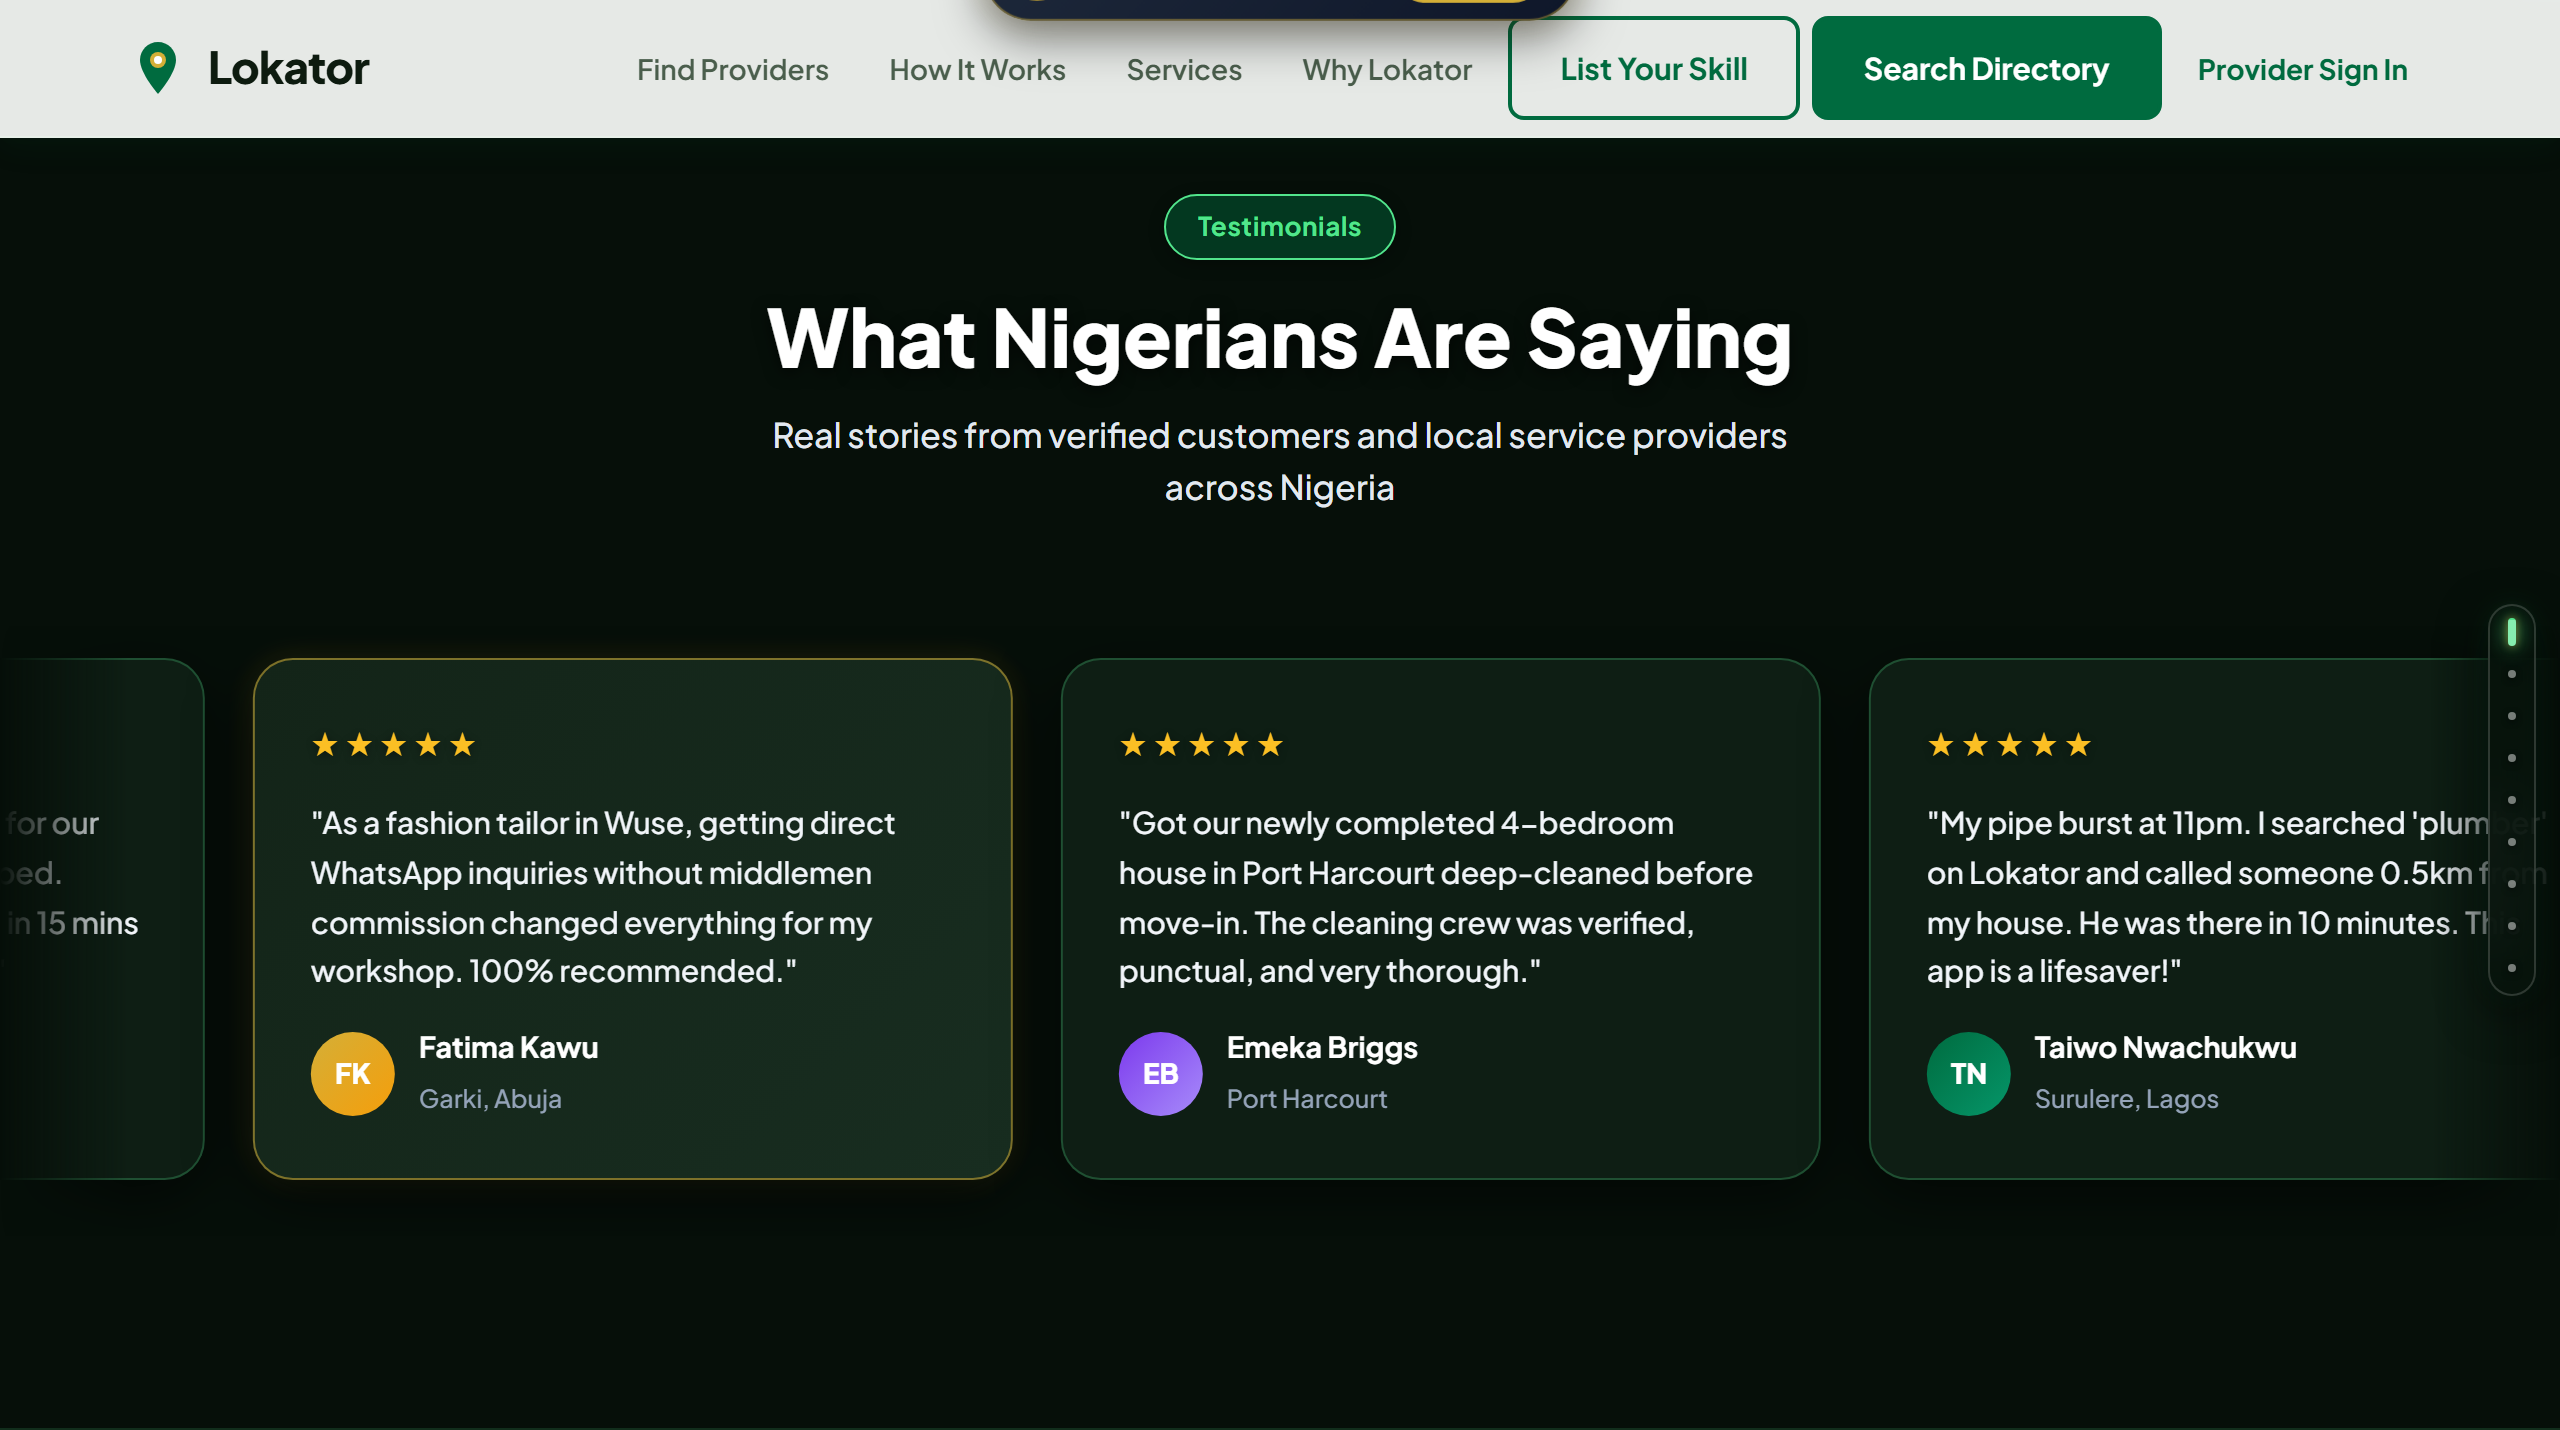
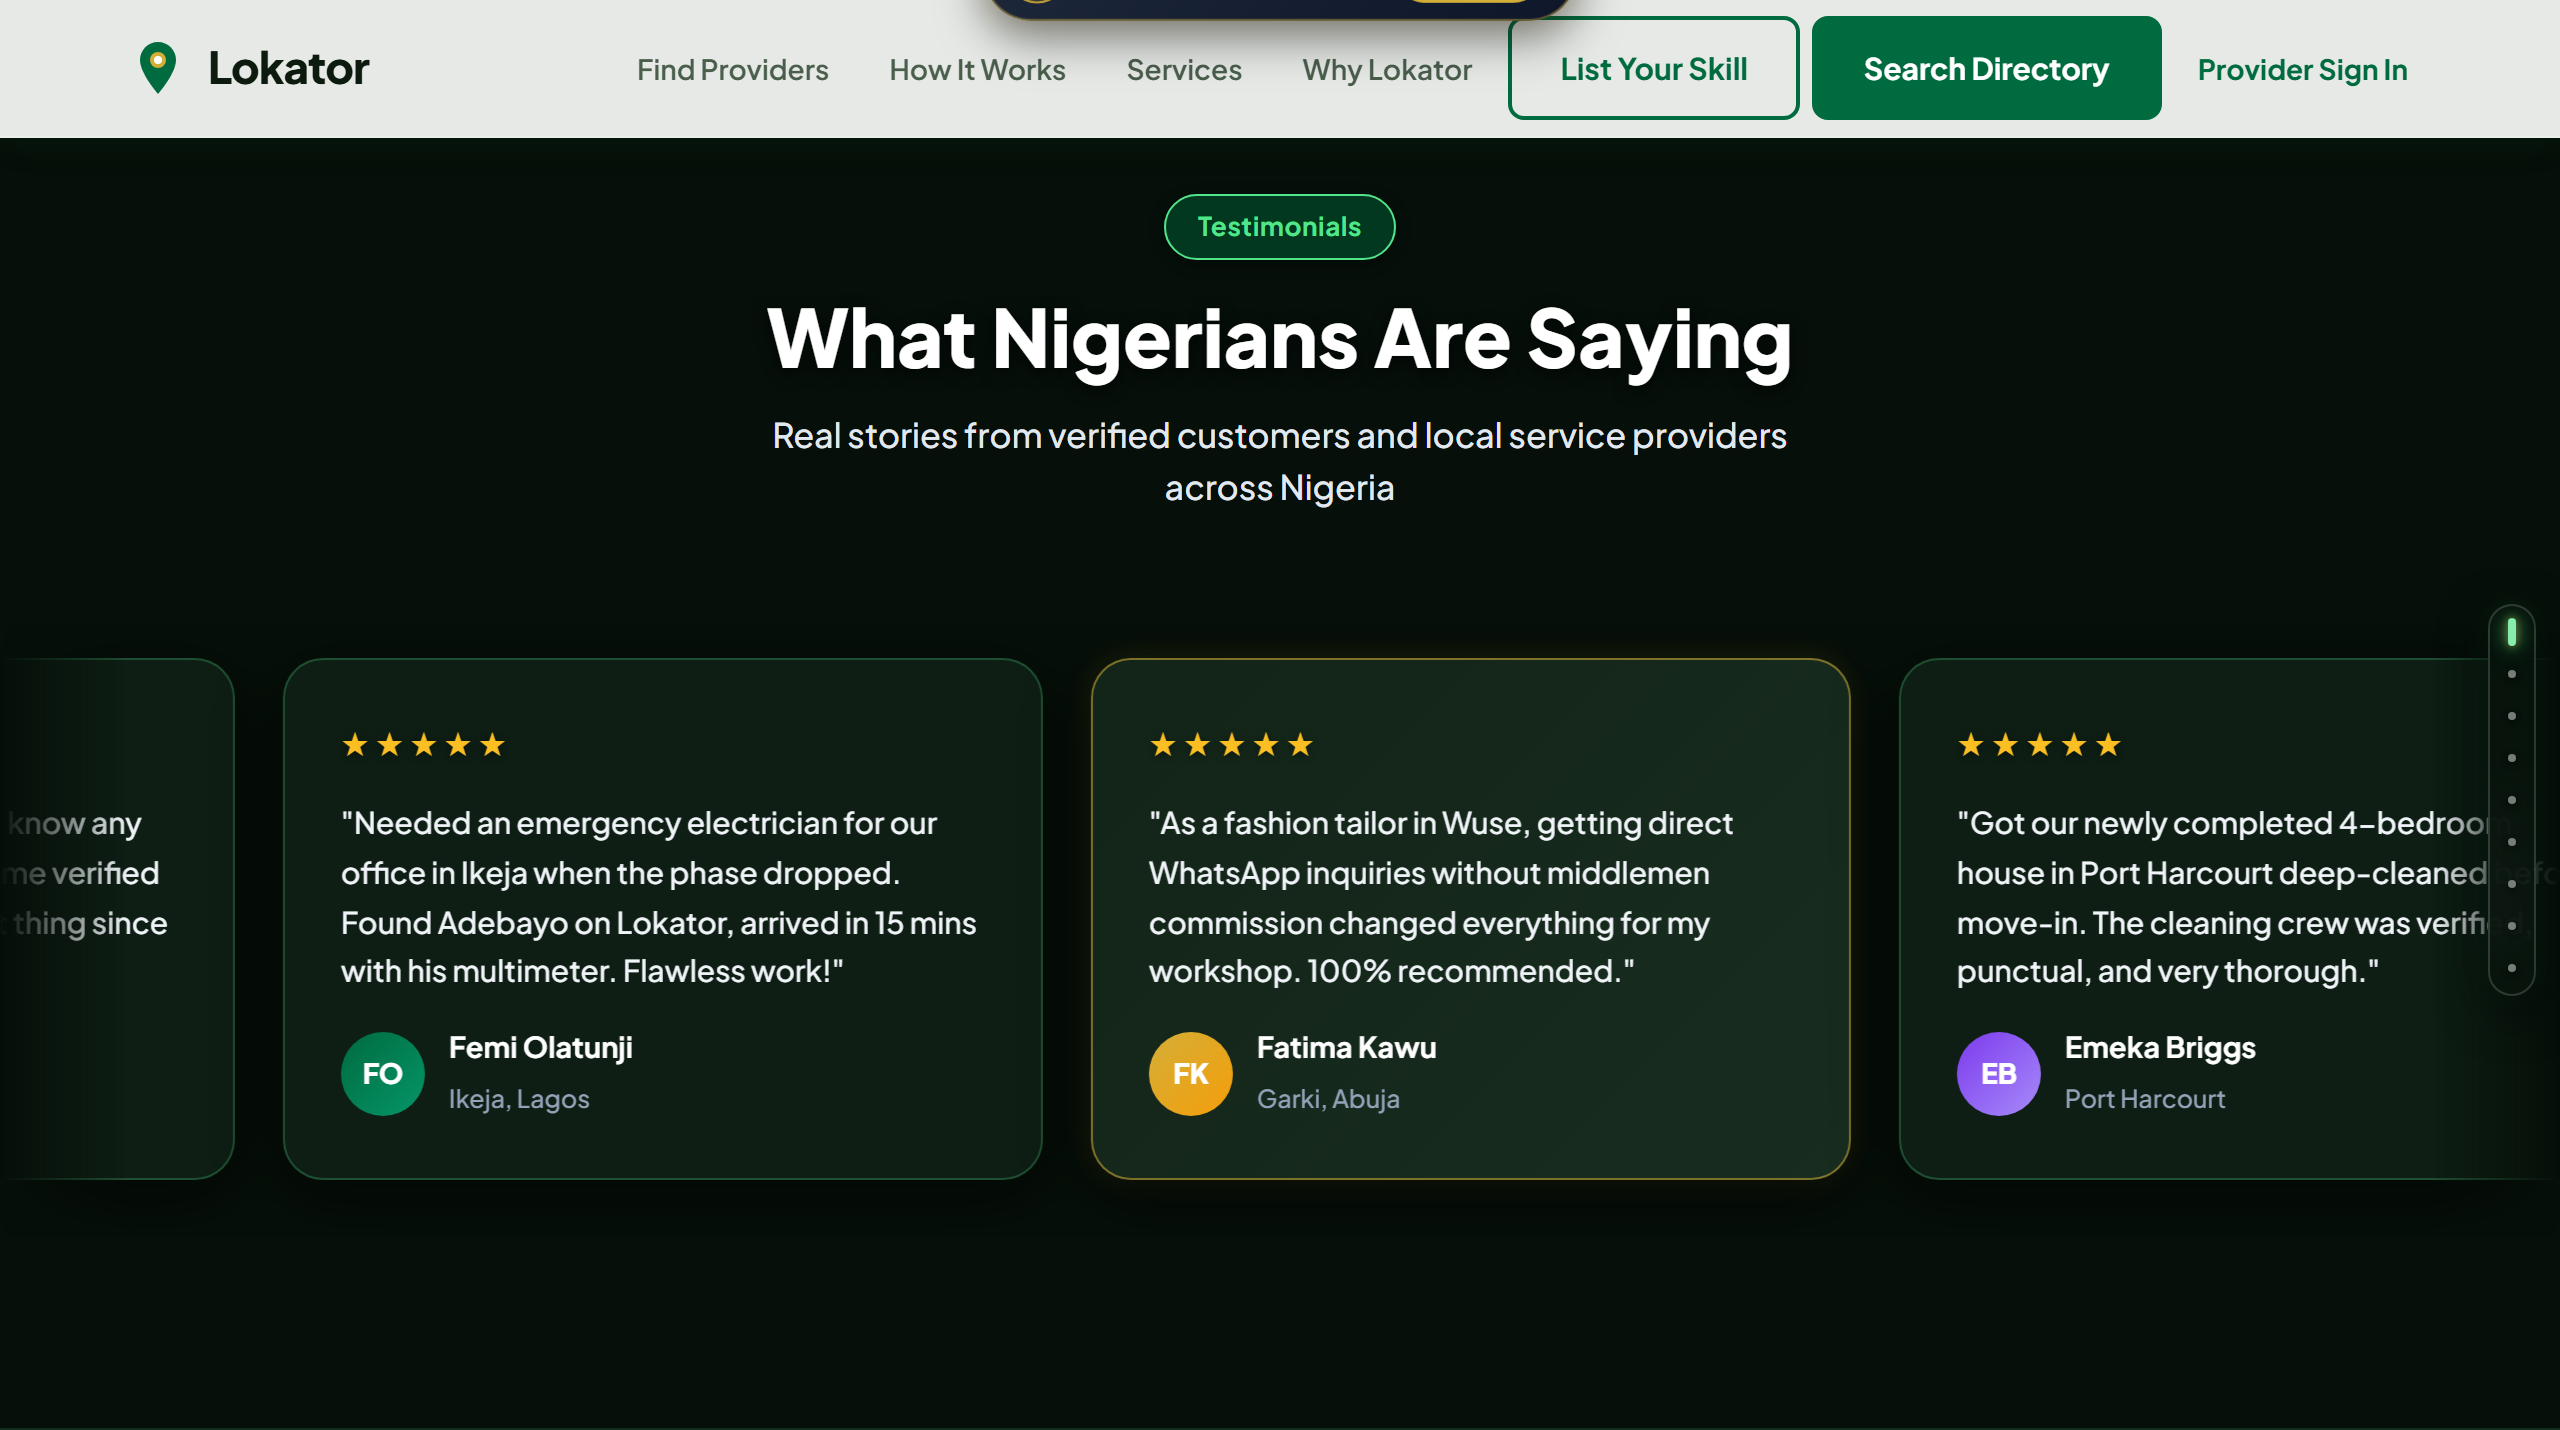
fix(home): reduce testimonial marquee to a single loop cycle and remove extra duplicates

diff --git a/index.html b/index.html
@@ -1092,110 +1092,6 @@
             </div>
           </div>
         </div>
-
-        <!-- Group 3: Seamless Clone Set 2 -->
-        <div class="testi-group" aria-hidden="true">
-          <div class="testi-card">
-            <div class="testi-stars">★★★★★</div>
-            <p>"My pipe burst at 11pm. I searched 'plumber' on Lokator and called someone 0.5km from my house. He was there in 10 minutes. This app is a lifesaver!"</p>
-            <div class="testi-author">
-              <div class="testi-av tav1">TN</div>
-              <div><strong>Taiwo Nwachukwu</strong><span>Surulere, Lagos</span></div>
-            </div>
-          </div>
-          <div class="testi-card testi-hl">
-            <div class="testi-stars">★★★★★</div>
-            <p>"I registered as a nail tech on Lokator and in my first week I got 7 new customers — all from my area. I didn't pay one naira. My business is booming!"</p>
-            <div class="testi-author">
-              <div class="testi-av tav2">AB</div>
-              <div><strong>Amaka Bello</strong><span>Wuse, Abuja</span></div>
-            </div>
-          </div>
-          <div class="testi-card">
-            <div class="testi-stars">★★★★★</div>
-            <p>"No more asking neighbours 'you know any good mechanic?' Lokator shows me verified people near me with ratings. Best thing since WhatsApp in Nigeria!"</p>
-            <div class="testi-author">
-              <div class="testi-av tav3">SK</div>
-              <div><strong>Sani Kabiru</strong><span>Kano</span></div>
-            </div>
-          </div>
-          <div class="testi-card">
-            <div class="testi-stars">★★★★★</div>
-            <p>"Needed an emergency electrician for our office in Ikeja when the phase dropped. Found Adebayo on Lokator, arrived in 15 mins with his multimeter. Flawless work!"</p>
-            <div class="testi-author">
-              <div class="testi-av tav1">FO</div>
-              <div><strong>Femi Olatunji</strong><span>Ikeja, Lagos</span></div>
-            </div>
-          </div>
-          <div class="testi-card testi-hl">
-            <div class="testi-stars">★★★★★</div>
-            <p>"As a fashion tailor in Wuse, getting direct WhatsApp inquiries without middlemen commission changed everything for my workshop. 100% recommended."</p>
-            <div class="testi-author">
-              <div class="testi-av tav2">FK</div>
-              <div><strong>Fatima Kawu</strong><span>Garki, Abuja</span></div>
-            </div>
-          </div>
-          <div class="testi-card">
-            <div class="testi-stars">★★★★★</div>
-            <p>"Got our newly completed 4-bedroom house in Port Harcourt deep-cleaned before move-in. The cleaning crew was verified, punctual, and very thorough."</p>
-            <div class="testi-author">
-              <div class="testi-av tav3">EB</div>
-              <div><strong>Emeka Briggs</strong><span>Port Harcourt</span></div>
-            </div>
-          </div>
-        </div>
-
-        <!-- Group 4: Seamless Clone Set 3 -->
-        <div class="testi-group" aria-hidden="true">
-          <div class="testi-card">
-            <div class="testi-stars">★★★★★</div>
-            <p>"My pipe burst at 11pm. I searched 'plumber' on Lokator and called someone 0.5km from my house. He was there in 10 minutes. This app is a lifesaver!"</p>
-            <div class="testi-author">
-              <div class="testi-av tav1">TN</div>
-              <div><strong>Taiwo Nwachukwu</strong><span>Surulere, Lagos</span></div>
-            </div>
-          </div>
-          <div class="testi-card testi-hl">
-            <div class="testi-stars">★★★★★</div>
-            <p>"I registered as a nail tech on Lokator and in my first week I got 7 new customers — all from my area. I didn't pay one naira. My business is booming!"</p>
-            <div class="testi-author">
-              <div class="testi-av tav2">AB</div>
-              <div><strong>Amaka Bello</strong><span>Wuse, Abuja</span></div>
-            </div>
-          </div>
-          <div class="testi-card">
-            <div class="testi-stars">★★★★★</div>
-            <p>"No more asking neighbours 'you know any good mechanic?' Lokator shows me verified people near me with ratings. Best thing since WhatsApp in Nigeria!"</p>
-            <div class="testi-author">
-              <div class="testi-av tav3">SK</div>
-              <div><strong>Sani Kabiru</strong><span>Kano</span></div>
-            </div>
-          </div>
-          <div class="testi-card">
-            <div class="testi-stars">★★★★★</div>
-            <p>"Needed an emergency electrician for our office in Ikeja when the phase dropped. Found Adebayo on Lokator, arrived in 15 mins with his multimeter. Flawless work!"</p>
-            <div class="testi-author">
-              <div class="testi-av tav1">FO</div>
-              <div><strong>Femi Olatunji</strong><span>Ikeja, Lagos</span></div>
-            </div>
-          </div>
-          <div class="testi-card testi-hl">
-            <div class="testi-stars">★★★★★</div>
-            <p>"As a fashion tailor in Wuse, getting direct WhatsApp inquiries without middlemen commission changed everything for my workshop. 100% recommended."</p>
-            <div class="testi-author">
-              <div class="testi-av tav2">FK</div>
-              <div><strong>Fatima Kawu</strong><span>Garki, Abuja</span></div>
-            </div>
-          </div>
-          <div class="testi-card">
-            <div class="testi-stars">★★★★★</div>
-            <p>"Got our newly completed 4-bedroom house in Port Harcourt deep-cleaned before move-in. The cleaning crew was verified, punctual, and very thorough."</p>
-            <div class="testi-author">
-              <div class="testi-av tav3">EB</div>
-              <div><strong>Emeka Briggs</strong><span>Port Harcourt</span></div>
-            </div>
-          </div>
-        </div>
       </div>
     </div>
   </section>

diff --git a/scripts/verify_live_vercel_testimonials.js b/scripts/verify_live_vercel_testimonials.js
@@ -41,7 +41,7 @@ async function verifyLiveVercelTestimonials() {
   const requiredHtmlSignatures = [
     'testi-group',
     'Group 1: Primary Set',
-    'Group 4: Seamless Clone Set 3'
+    'Group 2: Seamless Clone Set 1'
   ];
 
   for (const sig of requiredHtmlSignatures) {
@@ -52,7 +52,7 @@ async function verifyLiveVercelTestimonials() {
 
   const requiredCssSignatures = [
     '.testi-group',
-    'scrollTestimonials 55s linear infinite',
+    'scrollTestimonials 30s linear infinite',
     'overflow-x: clip'
   ];
 
@@ -75,8 +75,9 @@ async function verifyLiveVercelTestimonials() {
     });
 
     const page = await context.newPage();
-    await page.goto(PROD_HOME_URL, { waitUntil: 'networkidle', timeout: 60000 });
-    await page.waitForSelector('#testimonials', { timeout: 30000 });
+    await page.route('**/*.{mp4,webm,ogg}', route => route.abort());
+    await page.goto(PROD_HOME_URL, { waitUntil: 'domcontentloaded', timeout: 30000 });
+    await page.waitForSelector('#testimonials', { timeout: 15000 });
     // Wait until style.css is active
     await page.waitForFunction(() => {
       const track = document.getElementById('testi-track');
@@ -110,12 +111,12 @@ async function verifyLiveVercelTestimonials() {
       };
     });
 
-    console.log(`   ✓ Live Marquee Group Count: ${liveMarqueeAudit.groupCount} (Expected 4)`);
+    console.log(`   ✓ Live Marquee Group Count: ${liveMarqueeAudit.groupCount} (Expected 2)`);
     console.log(`   ✓ Live Marquee Animation: ${liveMarqueeAudit.animationName} ${liveMarqueeAudit.animationDuration} ${liveMarqueeAudit.animationTimingFunction}`);
     console.log(`   ✓ Live Marquee Play State: ${liveMarqueeAudit.animationPlayState}`);
     console.log(`   ✓ Live Horizontal Overflow: docW=${liveMarqueeAudit.docW}, docScrollW=${liveMarqueeAudit.scrollW}, bodyScrollW=${liveMarqueeAudit.bodyScrollW} (0px OVERFLOW: ${liveMarqueeAudit.noOverflow ? 'YES' : 'NO'})`);
 
-    if (liveMarqueeAudit.groupCount !== 4) throw new Error('Live Vercel does not have 4 groups yet');
+    if (liveMarqueeAudit.groupCount !== 2) throw new Error('Live Vercel does not have 2 groups yet');
     if (!liveMarqueeAudit.noOverflow) throw new Error('Live Vercel has horizontal body overflow');
 
     // Live Motion Sampling over time on Vercel

diff --git a/scripts/verify_testimonial_loop.js b/scripts/verify_testimonial_loop.js
@@ -65,7 +65,8 @@ async function runTestSuite() {
       const context = await browser.newContext({
         viewport: { width: vp.width, height: vp.height },
         deviceScaleFactor: 2,
-        locale: 'en-NG'
+        locale: 'en-NG',
+        serviceWorkers: 'block'
       });
       const page = await context.newPage();
       await page.goto('http://127.0.0.1:8080/index.html', { waitUntil: 'domcontentloaded' });
@@ -107,7 +108,7 @@ async function runTestSuite() {
         };
       });
 
-      assert(trackStructure.groupCount === 4, `${vp.name}: Exactly 4 groups present for seamless 4K infinite coverage`);
+      assert(trackStructure.groupCount === 2, `${vp.name}: Exactly 2 groups present (1 canonical + 1 duplicate loop cycle)`);
       assert(trackStructure.cardsPerGroup === 6, `${vp.name}: Exactly 6 testimonial cards per group`);
       assert(trackStructure.animationName === 'scrollTestimonials', `${vp.name}: animationName is scrollTestimonials`);
       assert(trackStructure.animationPlayState === 'running', `${vp.name}: animationPlayState is running`);
@@ -187,7 +188,7 @@ async function runTestSuite() {
     // 2. Interaction & Lifecycle Verification
     console.log('\n--- Auditing Lifecycle & Interaction Resilience ---');
     {
-      const context = await browser.newContext({ viewport: { width: 1280, height: 800 } });
+      const context = await browser.newContext({ viewport: { width: 1280, height: 800 }, serviceWorkers: 'block' });
       const page = await context.newPage();
       await page.goto('http://127.0.0.1:8080/index.html', { waitUntil: 'domcontentloaded' });
 
@@ -260,7 +261,8 @@ async function runTestSuite() {
     {
       const context = await browser.newContext({
         viewport: { width: 1280, height: 800 },
-        reducedMotion: 'reduce'
+        reducedMotion: 'reduce',
+        serviceWorkers: 'block'
       });
       const page = await context.newPage();
       await page.goto('http://127.0.0.1:8080/index.html', { waitUntil: 'domcontentloaded' });

diff --git a/style.css b/style.css
@@ -1652,7 +1652,7 @@ body {
   display: flex;
   width: max-content;
   will-change: transform;
-  animation: scrollTestimonials 55s linear infinite;
+  animation: scrollTestimonials 30s linear infinite;
   animation-direction: normal;
 }
 
@@ -2869,7 +2869,7 @@ body {
   }
 
   .testi-track {
-    animation-duration: 45s;
+    animation-duration: 24s;
   }
 
   .testi-group {
